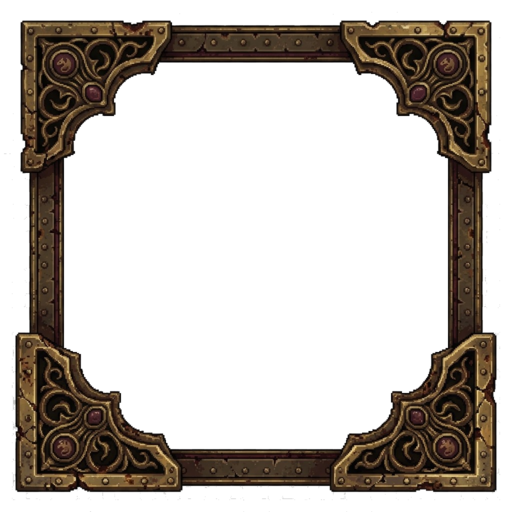
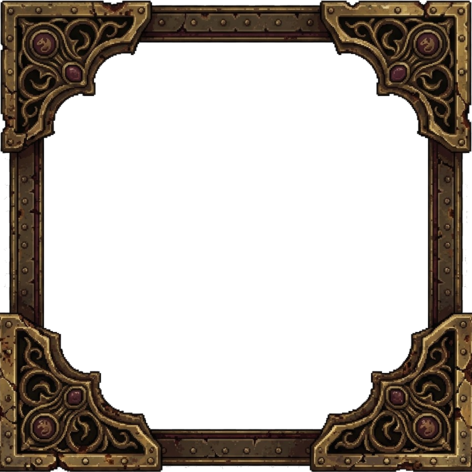
Corrige l'écart entre le fond marron et le cadre RPG illustré
Deux causes cumulées : marge transparente autour du dessin source
(recadrée, border-image-slice réajusté) et creux/échancrures du motif
d'angle qui laissaient voir le fond de page (background-clip passé en
border-box pour que le dégradé du panneau les comble).

Claude-Session: https://claude.ai/code/session_01NvFHwHAY8wjj9fcNNxKucE

diff --git a/app/globals.css b/app/globals.css
@@ -162,10 +162,10 @@
 .rpg-frame {
   position: relative;
   background-image: linear-gradient(160deg, var(--color-rpg-panel), var(--color-rpg-panel-deep));
-  background-clip: padding-box;
+  background-clip: border-box;
   border: 18px solid transparent;
   border-image-source: url("/rpg/frames/cadre-grimoire.png");
-  border-image-slice: 115;
+  border-image-slice: 140;
   border-image-width: 18px;
   border-image-repeat: round;
   box-shadow: 0 8px 24px -12px rgba(0, 0, 0, 0.6);

diff --git a/CLAUDE.md b/CLAUDE.md
@@ -745,6 +745,17 @@ de portrait évolutif par niveau.
   qui laissait un petit triangle du fond de page visible dans chacun des
   quatre coins. Les panneaux `rpg` restent donc des rectangles francs —
   cohérent avec le cadre lui-même, qui n'est pas arrondi.
+  **Deux autres écarts corrigés après coup**, visibles entre le fond
+  marron du panneau et l'ornement doré : (1) l'image source avait une
+  marge transparente autour du dessin du cadre (reste du damier d'origine,
+  ~25 px sur un canevas 512) — recadrée avec `convert -shave 20x20` pour
+  que le cadre touche les bords du fichier, et `border-image-slice` ajusté
+  de 115 à 140 sur la nouvelle taille (472 px) pour couvrir tout le motif
+  d'angle ; (2) le motif d'angle a lui-même des creux/échancrures (volutes
+  ajourées) qui restaient transparents une fois découpés en 9-slice —
+  `background-clip: padding-box` → `border-box` pour que le dégradé du
+  panneau remplisse aussi ces creux au lieu de laisser voir le fond de
+  page à travers.
 
 ## Points d'attention
 - Toute nouvelle requête Supabase doit rester compatible avec les policies
